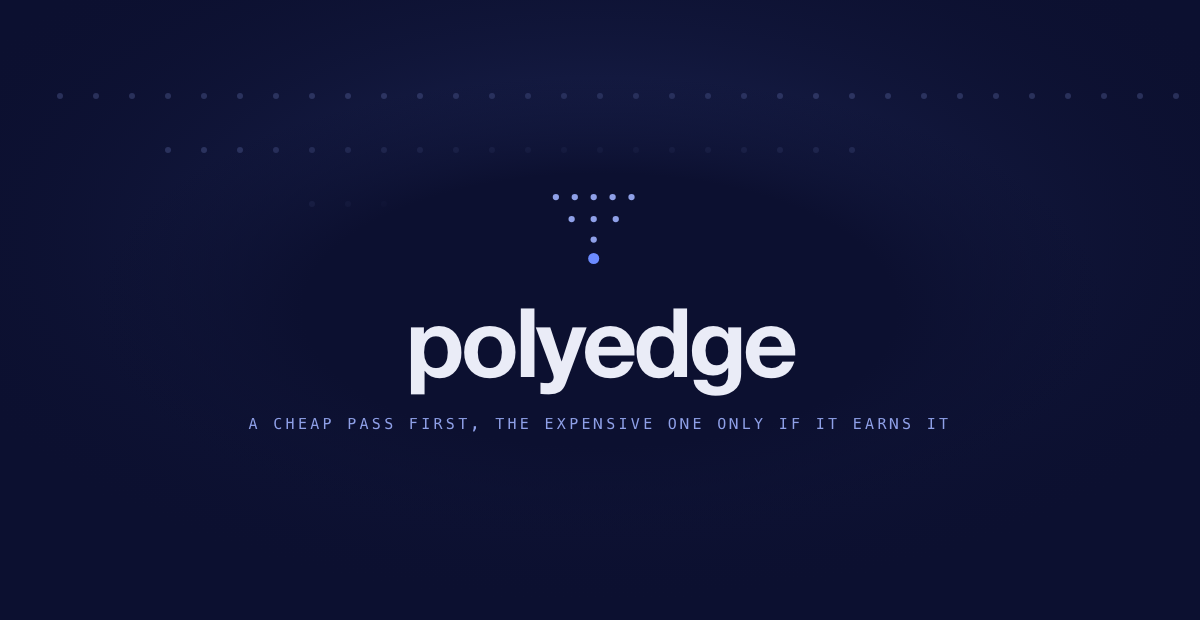
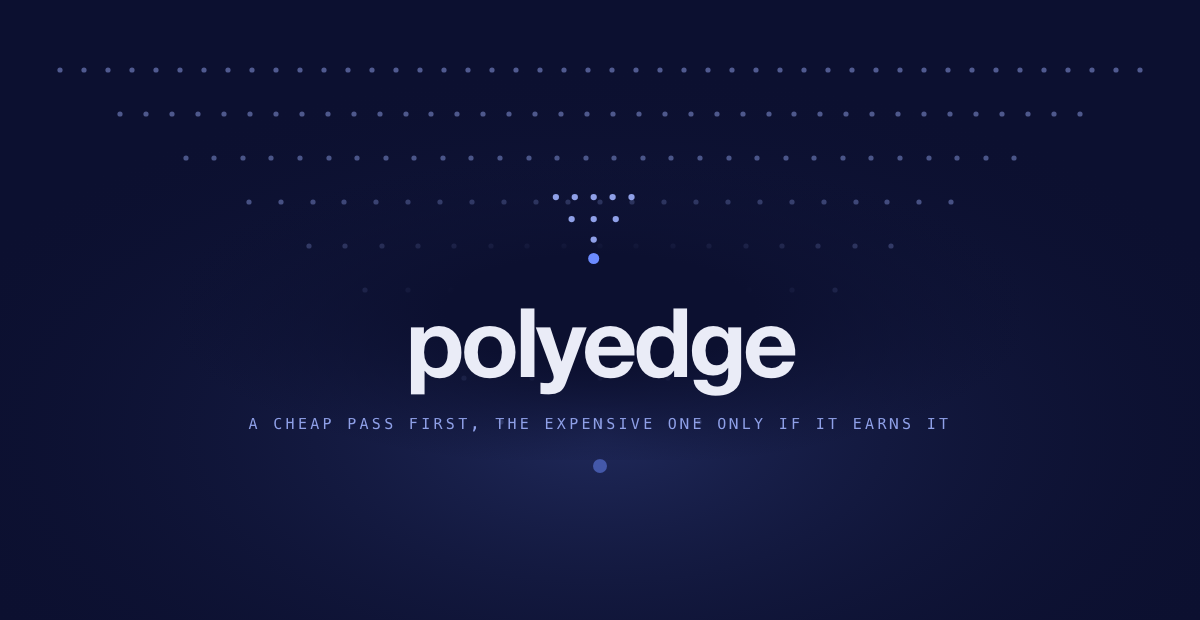
Give the header room and make the badge row read as one strip
The banner artwork was hidden behind an oversized scrim, so a page that should
open on a picture opened on an empty field. The artwork is now dense and
visible, and it is drawn from what this project actually does.

The badge row had grey label halves and inconsistent colours, so it read as a
pile of separate images. Every badge now shares one dark label colour and
carries this project's accent on the value half, all on a single line.

Sections have air between them instead of butting up against each other.

Changed region(s): [[0.37, 0.6742, 0.6167, 0.8274]]

diff --git a/README.md b/README.md
@@ -5,12 +5,10 @@
 ### An event-driven scanner that reads roughly 1,700 prediction markets cheaply, and pays for the expensive model only where it is warranted.
 
 <p>
-<img src="https://img.shields.io/github/actions/workflow/status/AdrianAdem/polyedge/ci.yml?style=for-the-badge&label=CI" alt="" height="30"/>
-<img src="https://img.shields.io/badge/license-MIT-0C1030?style=for-the-badge" alt="" height="30"/>
-<img src="https://img.shields.io/badge/python-3.11%2B-0C1030?style=for-the-badge&logo=python&logoColor=white" alt="" height="30"/>
-<img src="https://img.shields.io/badge/run%20cost-%243%E2%80%938%20%2F%20day-6C8BFF?style=for-the-badge" alt="" height="30"/>
-<img src="https://img.shields.io/badge/execution-paper%20only-0C1030?style=for-the-badge" alt="" height="30"/>
+<img src="https://img.shields.io/github/actions/workflow/status/AdrianAdem/polyedge/ci.yml?style=for-the-badge&label=CI&labelColor=161A2E&color=6C8BFF" alt=""/> <img src="https://img.shields.io/badge/license-MIT-6C8BFF?style=for-the-badge&labelColor=161A2E" alt=""/> <img src="https://img.shields.io/badge/python-3.11%2B-3776AB?style=for-the-badge&logo=python&logoColor=white&labelColor=161A2E" alt=""/> <img src="https://img.shields.io/badge/run%20cost-%243%E2%80%938%20%2F%20day-6C8BFF?style=for-the-badge&labelColor=161A2E" alt=""/> <img src="https://img.shields.io/badge/execution-paper%20only-8FA0E8?style=for-the-badge&labelColor=161A2E" alt=""/>
 </p>
+
+<br>
 
 </div>
 
